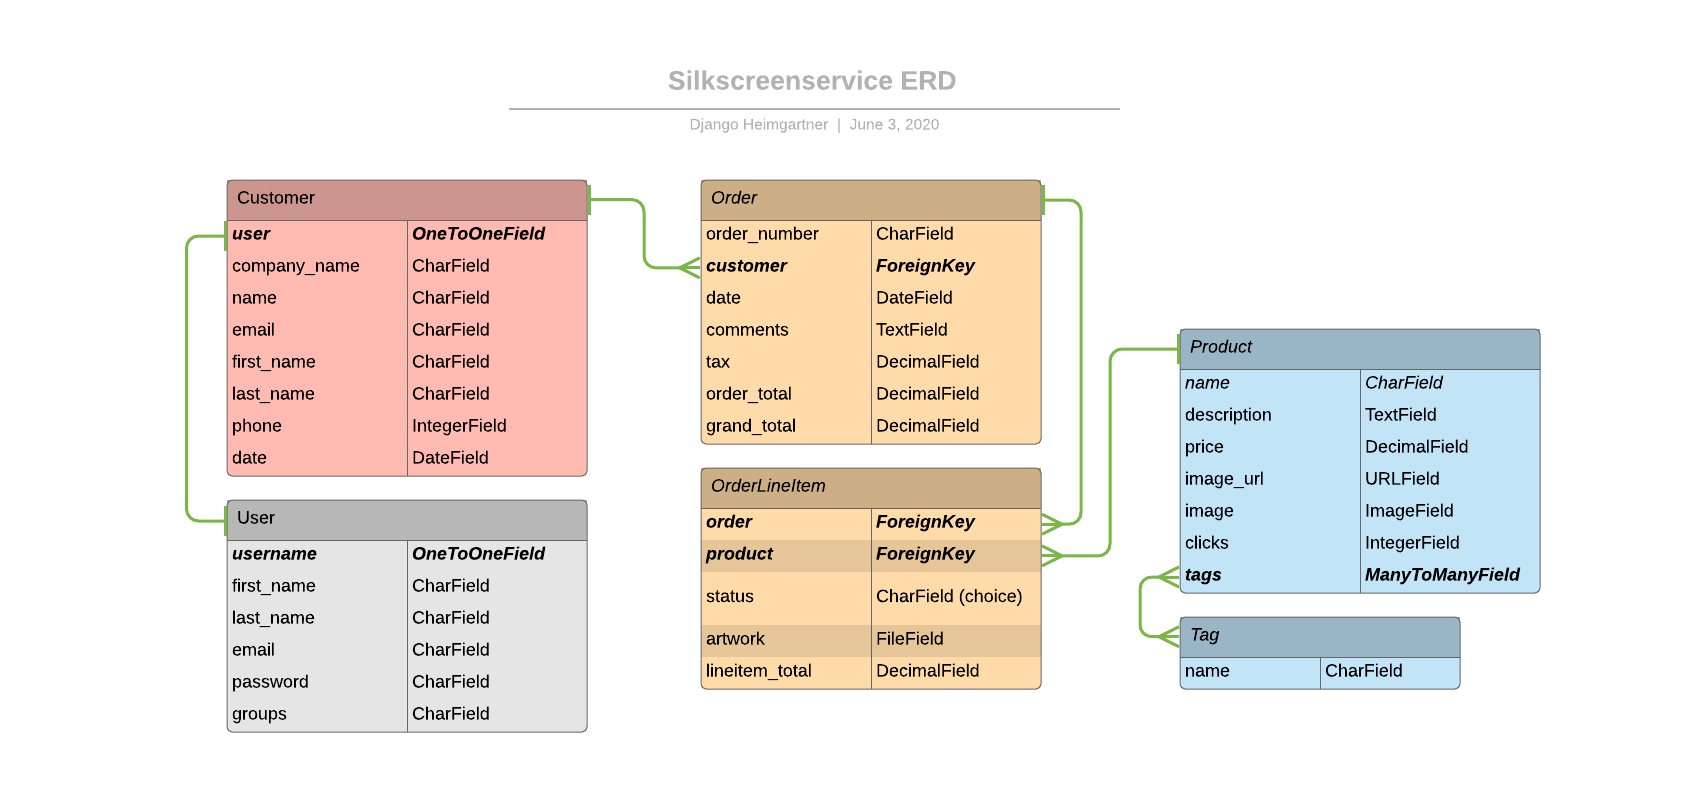
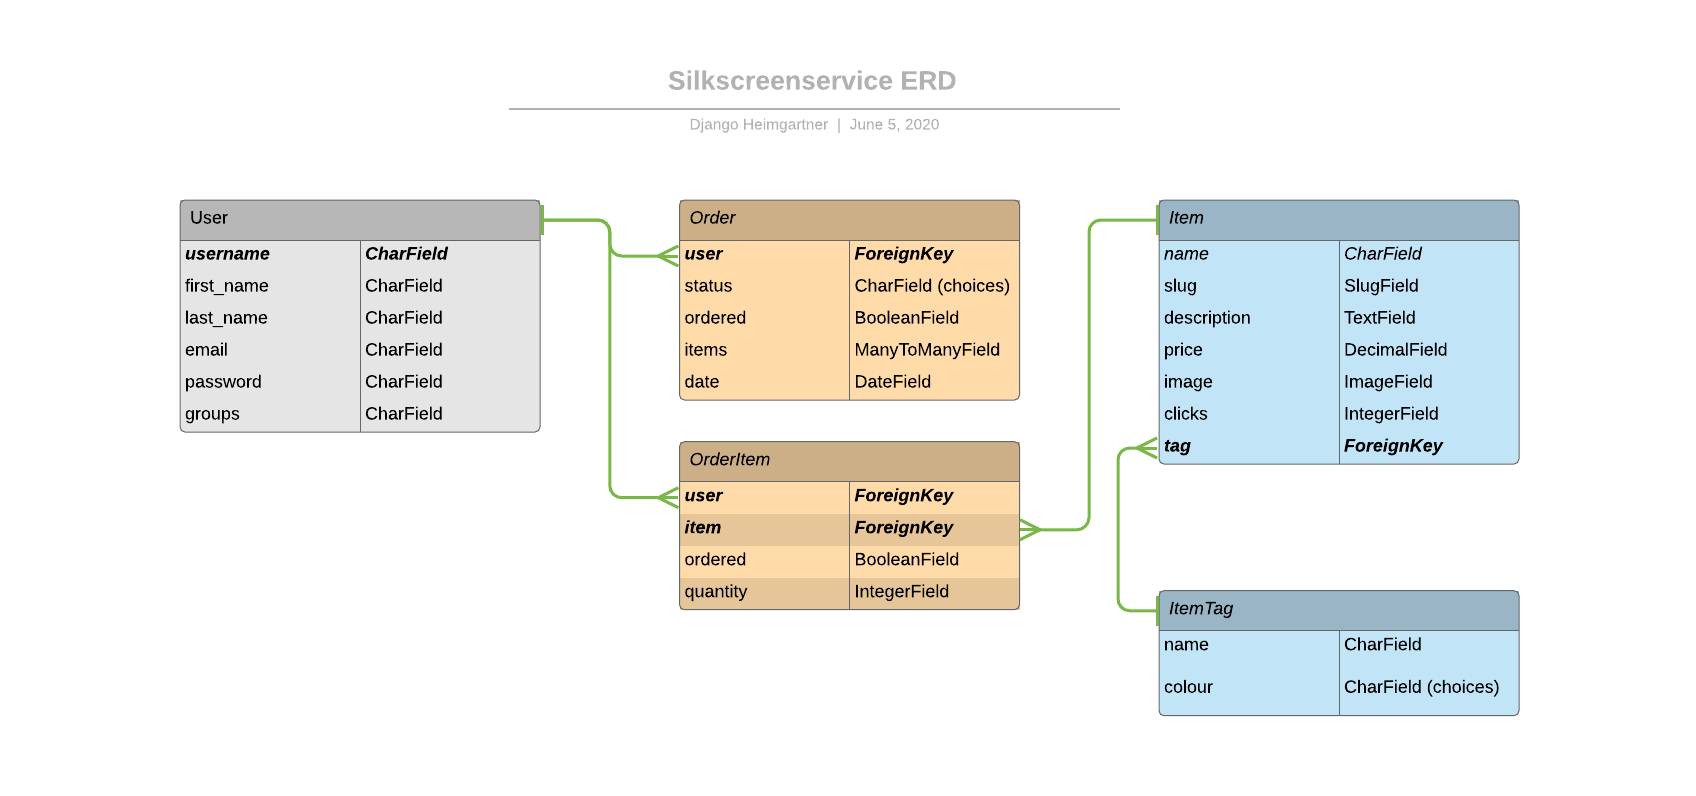
Updated diagram, 2 tag colors added & flake8 check

diff --git a/static/css/style.css b/static/css/style.css
@@ -43,15 +43,15 @@ html {
 }
 
 .service-card {
-  height: 100%;
-  font-size: 17px;
+	height: 100%;
+	font-size: 17px;
 }
 
 .service-badge {
-  font-size: 14px;
-  font-weight: 400;
-  vertical-align: 4px;
-  margin-left: 5px;
+	font-size: 14px;
+	font-weight: 400;
+	vertical-align: 4px;
+	margin-left: 5px;
 }
 
 /*--------------------Custom navbar styling--------------------*/

diff --git a/orders/models.py b/orders/models.py
@@ -6,13 +6,15 @@ from django.shortcuts import reverse
 STATUS = (
     ('requested', 'Requested'),
     ('pending', 'Pending'),
-    ('finished', 'Finished'),
+    ('finished', 'Finished')
 )
 
 TAG_COLOURS = (
     ('danger', 'Red'),
     ('success', 'Green'),
     ('info', 'Blue'),
+    ('warning', 'Yellow'),
+    ('secondary', 'Gray')
 )
 
 
@@ -27,21 +29,23 @@ class ItemTag(models.Model):
 
 class Item(models.Model):
     name = models.CharField(max_length=20)
+    slug = models.SlugField()
     description = models.TextField(max_length=70)
     price = models.DecimalField(max_digits=6, decimal_places=2)
     image = models.ImageField(upload_to='images', null=True, blank=True)
-    slug = models.SlugField()
     clicks = models.IntegerField(default=0)
     tag = models.ForeignKey(
         ItemTag, null=True, blank=True, on_delete=models.SET_NULL)
-
-    def __str__(self):
-        return self.name
 
     def get_absolute_url(self):
         return reverse('orders:product', kwargs={
             'slug': self.slug
         })
+
+    def __str__(self):
+        return self.name
+
+    
 
     def get_add_to_cart_url(self):
         return reverse('orders:add_to_cart', kwargs={
@@ -52,8 +56,8 @@ class Item(models.Model):
 class OrderItem(models.Model):
     user = models.ForeignKey(
           settings.AUTH_USER_MODEL, on_delete=models.CASCADE)
-    ordered = models.BooleanField(default=False)
     item = models.ForeignKey(Item, on_delete=models.CASCADE)
+    ordered = models.BooleanField(default=False)
     # QUANTITY IS NOT NEEDED!!!!
     quantity = models.IntegerField(default=1)
 

diff --git a/silkscreenservice/settings.py b/silkscreenservice/settings.py
@@ -13,7 +13,7 @@ https://docs.djangoproject.com/en/3.0/ref/settings/
 import os
 
 if os.path.exists('env.py'):
-    import env
+    import env  # noqa: F401
 
 # Build paths inside the project like this: os.path.join(BASE_DIR, ...)
 BASE_DIR = os.path.dirname(os.path.dirname(os.path.abspath(__file__)))
@@ -95,18 +95,22 @@ DATABASES = {
 # https://docs.djangoproject.com/en/3.0/ref/settings/#auth-password-validators
 
 AUTH_PASSWORD_VALIDATORS = [
-    {
-        'NAME': 'django.contrib.auth.password_validation.UserAttributeSimilarityValidator',
-    },
-    {
-        'NAME': 'django.contrib.auth.password_validation.MinimumLengthValidator',
-    },
-    {
-        'NAME': 'django.contrib.auth.password_validation.CommonPasswordValidator',
-    },
-    {
-        'NAME': 'django.contrib.auth.password_validation.NumericPasswordValidator',
-    },
+  {
+    'NAME':
+    'django.contrib.auth.password_validation.UserAttributeSimilarityValidator',
+  },
+  {
+    'NAME':
+    'django.contrib.auth.password_validation.MinimumLengthValidator',
+  },
+  {
+    'NAME':
+    'django.contrib.auth.password_validation.CommonPasswordValidator',
+  },
+  {
+    'NAME':
+    'django.contrib.auth.password_validation.NumericPasswordValidator',
+  },
 ]
 
 

diff --git a/manage.py b/manage.py
@@ -5,7 +5,8 @@ import sys
 
 
 def main():
-    os.environ.setdefault('DJANGO_SETTINGS_MODULE', 'silkscreenservice.settings')
+    os.environ.setdefault('DJANGO_SETTINGS_MODULE',
+                          'silkscreenservice.settings')
     try:
         from django.core.management import execute_from_command_line
     except ImportError as exc:

diff --git a/orders/urls.py b/orders/urls.py
@@ -1,5 +1,5 @@
 from django.urls import path
-from .views import item_list, ItemDetailView, add_to_cart
+from .views import ItemDetailView, add_to_cart
 
 app_name = 'orders'
 
